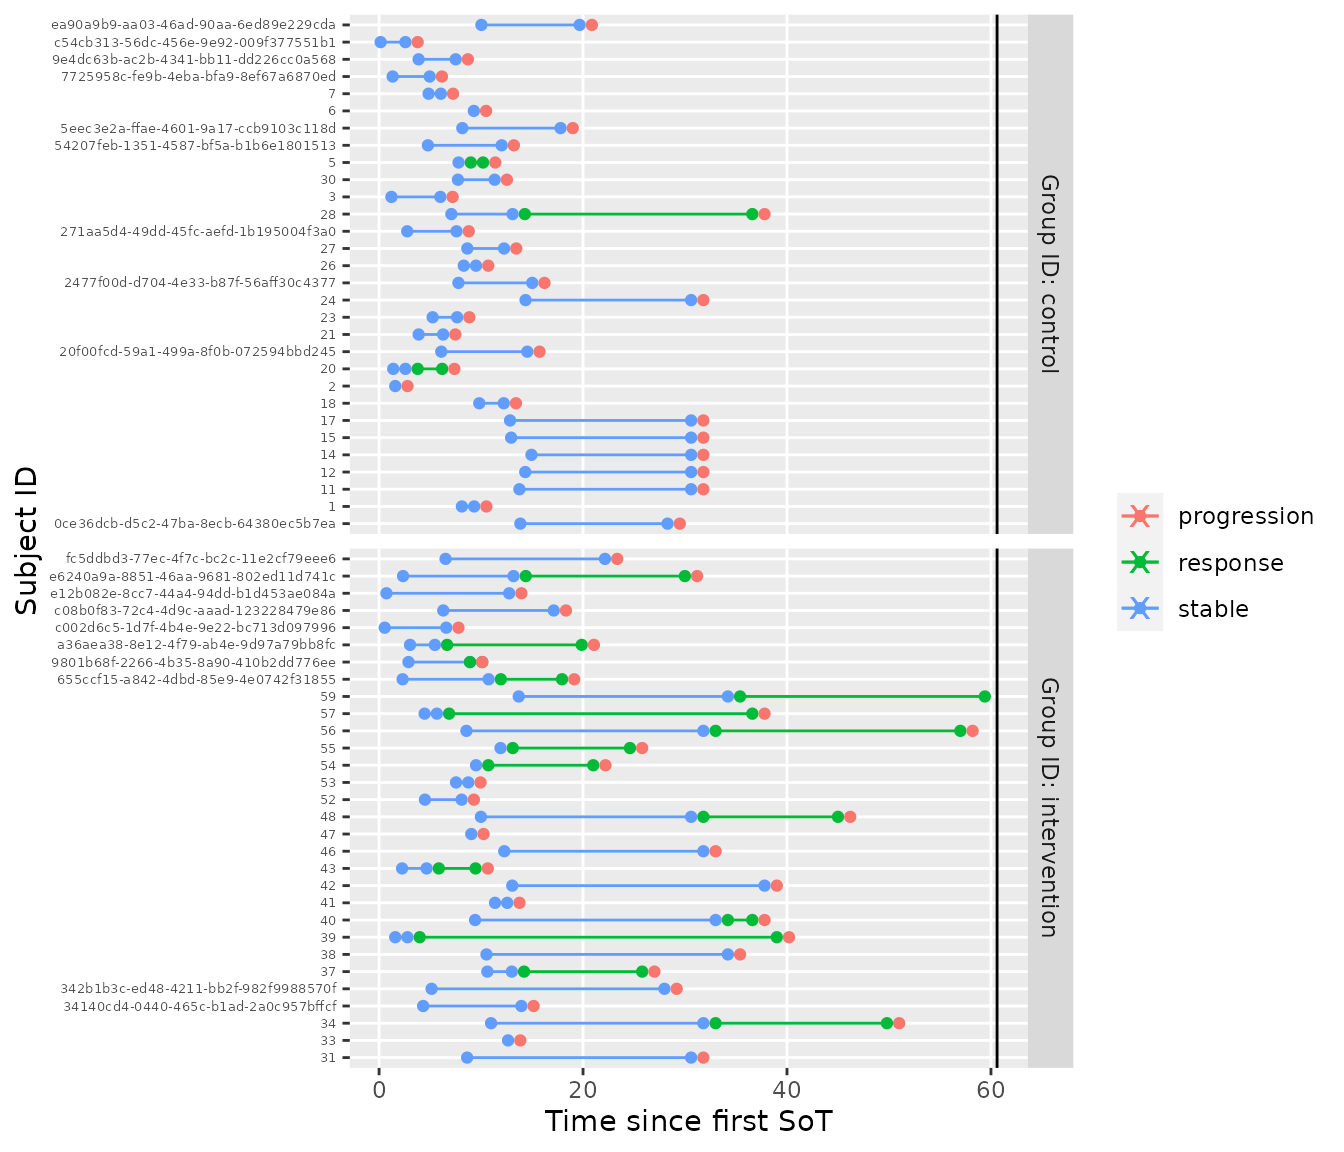
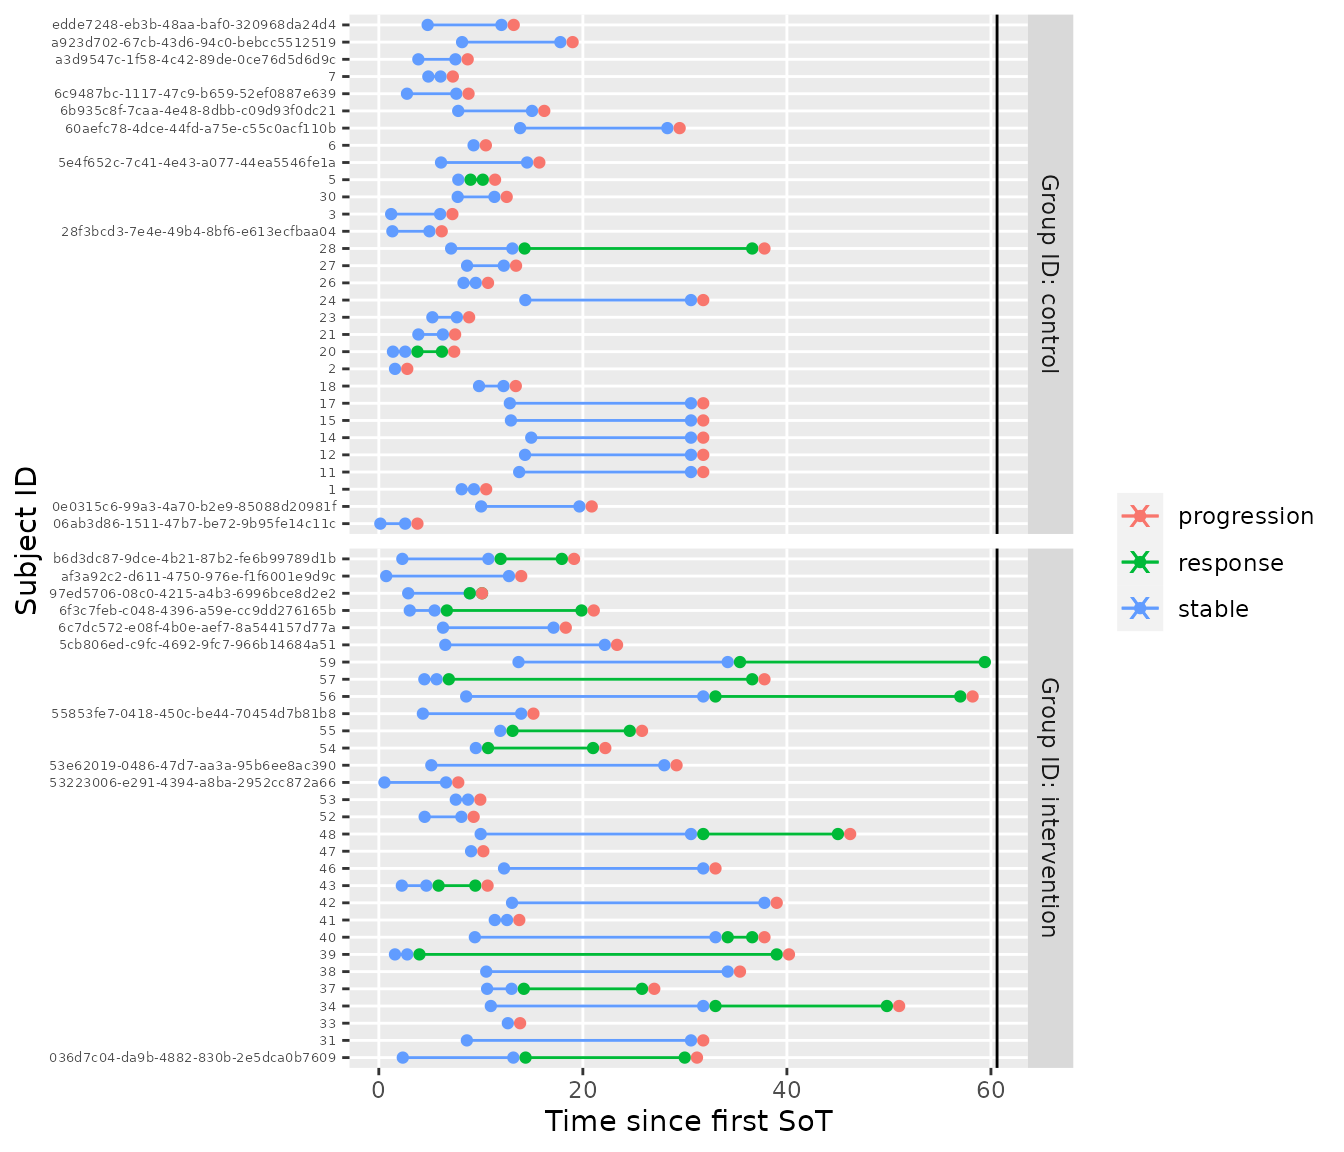
Deploying to gh-pages from @ Boehringer-Ingelheim/oncomsm@ecce1cef25dbb82bd77d9689d22aa2bc6d4420bf 🚀

diff --git a/articles/multi-state-model-for-early-oncology.html b/articles/multi-state-model-for-early-oncology.html
@@ -90,10 +90,10 @@
 <p><strong>tl;dr:</strong> <em>Tumor response data is often treated as binary endpoint in early oncology trials (objective response or progression free survival at x months). This ignores the fact that these are time-to-event endpoints. Instead, the multi-state characteristics of the data can be exploited to reduce bias at interim analyses and drive event prediction for probability of success calculations.</em></p>
 <p>In early oncology trials, (objective tumor) response based on the RECIST criteria is often used as primary endpoint to establish the activity of a treatment. Response is often treated as binary variable although it is a delayed event endpoint. At the final analysis, this simplification is of little concern since all individuals tend to be followed up long enough to justify the assumption that non-responders are unlikely to still become responders. This approach is often plausible since individuals with tumors not responding to treatment ultimately progress. However, when continuously monitoring such a trial, the assumption of sufficient follow-up is no longer fulfilled and a simple binary analysis may be biased.</p>
 <p>In this vignette, the problem is addressed by extending the statistic binary response model to a three-state model for “stable”, “response”, and “progression or death”. The respective transition numbers are given in the graph below.</p>
-<div id="htmlwidget-3ce5f019e2bd54279f5d" style="width:672px;height:200px;" class="DiagrammeR html-widget"></div>
-<script type="application/json" data-for="htmlwidget-3ce5f019e2bd54279f5d">{"x":{"diagram":"\ngraph LR\n  stable -- 1 --> response\n  response -- 3 --> progression[progression or death]\n  stable -- 2 --> progression[progression or death]\n"},"evals":[],"jsHooks":[]}</script><p>Once someone becomes a responder, this model only allows a transition to the combined progression or death state. This means that progression and death are not modeled as competing events and simplifies analysis greatly over a model like the one below:</p>
-<div id="htmlwidget-8886c5324d9cc4aec784" style="width:672px;height:200px;" class="DiagrammeR html-widget"></div>
-<script type="application/json" data-for="htmlwidget-8886c5324d9cc4aec784">{"x":{"diagram":"\ngraph LR\n  stable -- 1 --> response\n  response -- 3a --> progression\n  response -- 3b --> death\n  progression -- 4 --> death\n  stable -- 2a --> progression\n  stable -- 2b --> death\n"},"evals":[],"jsHooks":[]}</script><p>Coming back to the simpler model, there is still a competing event issue when starting from ‘stable’. Often, the convenient hazard-based approach is used to model multi-state situations like this. The hazard-based approach is intuitive, especially when considering non-parametric estimation, and co variate inclusion is well-understood. However, a hazard-based approach has several disadvantages:</p>
+<div id="htmlwidget-4d8710fcd9f7a84d3463" style="width:672px;height:200px;" class="DiagrammeR html-widget"></div>
+<script type="application/json" data-for="htmlwidget-4d8710fcd9f7a84d3463">{"x":{"diagram":"\ngraph LR\n  stable -- 1 --> response\n  response -- 3 --> progression[progression or death]\n  stable -- 2 --> progression[progression or death]\n"},"evals":[],"jsHooks":[]}</script><p>Once someone becomes a responder, this model only allows a transition to the combined progression or death state. This means that progression and death are not modeled as competing events and simplifies analysis greatly over a model like the one below:</p>
+<div id="htmlwidget-d0bf762b89362a0c2712" style="width:672px;height:200px;" class="DiagrammeR html-widget"></div>
+<script type="application/json" data-for="htmlwidget-d0bf762b89362a0c2712">{"x":{"diagram":"\ngraph LR\n  stable -- 1 --> response\n  response -- 3a --> progression\n  response -- 3b --> death\n  progression -- 4 --> death\n  stable -- 2a --> progression\n  stable -- 2b --> death\n"},"evals":[],"jsHooks":[]}</script><p>Coming back to the simpler model, there is still a competing event issue when starting from ‘stable’. Often, the convenient hazard-based approach is used to model multi-state situations like this. The hazard-based approach is intuitive, especially when considering non-parametric estimation, and co variate inclusion is well-understood. However, a hazard-based approach has several disadvantages:</p>
 <ol style="list-style-type: decimal">
 <li><p>The hazard scale is difficult to interpret since it is a momentary risk, not a probability. This leads to problems with prior specification in a Bayesian setting. The Bayesian approach is, however, particularly useful in the early development process since it allows to augment data with prior opinion or evidence and thus improve accuracy.</p></li>
 <li><p>A hazard based, non-Markov multi-state model leads to intractable expressions for the implicitly given transition probabilities. Hence they need to be calculated by simulation which makes the model less convenient to work with if transition probabilities a or of primary interest. Since the (objective) response rate often plays an important role in the analysis of early oncology trials, this is a disadvantage.</p></li>
@@ -320,8 +320,8 @@ R &amp;\sim \operatorname{Bernoulli}(p) \\
 <span><span class="co">#&gt; </span></span>
 <span><span class="co">#&gt; SAMPLING FOR MODEL 'srp_model' NOW (CHAIN 1).</span></span>
 <span><span class="co">#&gt; Chain 1: </span></span>
-<span><span class="co">#&gt; Chain 1: Gradient evaluation took 0.000108 seconds</span></span>
-<span><span class="co">#&gt; Chain 1: 1000 transitions using 10 leapfrog steps per transition would take 1.08 seconds.</span></span>
+<span><span class="co">#&gt; Chain 1: Gradient evaluation took 0.000127 seconds</span></span>
+<span><span class="co">#&gt; Chain 1: 1000 transitions using 10 leapfrog steps per transition would take 1.27 seconds.</span></span>
 <span><span class="co">#&gt; Chain 1: Adjust your expectations accordingly!</span></span>
 <span><span class="co">#&gt; Chain 1: </span></span>
 <span><span class="co">#&gt; Chain 1: </span></span>
@@ -338,9 +338,9 @@ R &amp;\sim \operatorname{Bernoulli}(p) \\
 <span><span class="co">#&gt; Chain 1: Iteration: 4750 / 5250 [ 90%]  (Sampling)</span></span>
 <span><span class="co">#&gt; Chain 1: Iteration: 5250 / 5250 [100%]  (Sampling)</span></span>
 <span><span class="co">#&gt; Chain 1: </span></span>
-<span><span class="co">#&gt; Chain 1:  Elapsed Time: 1.12402 seconds (Warm-up)</span></span>
-<span><span class="co">#&gt; Chain 1:                12.3214 seconds (Sampling)</span></span>
-<span><span class="co">#&gt; Chain 1:                13.4455 seconds (Total)</span></span>
+<span><span class="co">#&gt; Chain 1:  Elapsed Time: 1.22221 seconds (Warm-up)</span></span>
+<span><span class="co">#&gt; Chain 1:                13.3817 seconds (Sampling)</span></span>
+<span><span class="co">#&gt; Chain 1:                14.6039 seconds (Total)</span></span>
 <span><span class="co">#&gt; Chain 1:</span></span>
 <span></span>
 <span><span class="fu"><a href="https://rdrr.io/r/graphics/plot.default.html" class="external-link">plot</a></span><span class="op">(</span><span class="va">mdl</span>, dt <span class="op">=</span> <span class="fu"><a href="https://rdrr.io/r/base/c.html" class="external-link">c</a></span><span class="op">(</span><span class="fl">0</span>, <span class="fl">36</span><span class="op">)</span>, sample <span class="op">=</span> <span class="va">smpl_posterior</span><span class="op">)</span></span></code></pre></div>
@@ -408,26 +408,26 @@ R &amp;\sim \operatorname{Bernoulli}(p) \\
 <span><span class="co">#&gt; <span style="color: #949494;"># A tibble: 20 × 7</span></span></span>
 <span><span class="co">#&gt;    group_id     subject_id                        t_sot from  to     t_min t_max</span></span>
 <span><span class="co">#&gt;    <span style="color: #949494; font-style: italic;">&lt;chr&gt;</span>        <span style="color: #949494; font-style: italic;">&lt;chr&gt;</span>                             <span style="color: #949494; font-style: italic;">&lt;dbl&gt;</span> <span style="color: #949494; font-style: italic;">&lt;chr&gt;</span> <span style="color: #949494; font-style: italic;">&lt;chr&gt;</span>  <span style="color: #949494; font-style: italic;">&lt;dbl&gt;</span> <span style="color: #949494; font-style: italic;">&lt;dbl&gt;</span></span></span>
-<span><span class="co">#&gt; <span style="color: #BCBCBC;"> 1</span> control      c54cb313-56dc-456e-9e92-009f377…  0.151 stab… <span style="color: #BB0000;">NA</span>     0.184   <span style="color: #BB0000;">Inf</span></span></span>
-<span><span class="co">#&gt; <span style="color: #BCBCBC;"> 2</span> control      7725958c-fe9b-4eba-bfa9-8ef67a6…  1.33  stab… <span style="color: #BB0000;">NA</span>     1.36    <span style="color: #BB0000;">Inf</span></span></span>
-<span><span class="co">#&gt; <span style="color: #BCBCBC;"> 3</span> control      271aa5d4-49dd-45fc-aefd-1b19500…  2.76  stab… <span style="color: #BB0000;">NA</span>     2.79    <span style="color: #BB0000;">Inf</span></span></span>
-<span><span class="co">#&gt; <span style="color: #BCBCBC;"> 4</span> control      9e4dc63b-ac2b-4341-bb11-dd226cc…  3.88  stab… <span style="color: #BB0000;">NA</span>     3.91    <span style="color: #BB0000;">Inf</span></span></span>
-<span><span class="co">#&gt; <span style="color: #BCBCBC;"> 5</span> control      54207feb-1351-4587-bf5a-b1b6e18…  4.79  stab… <span style="color: #BB0000;">NA</span>     4.82    <span style="color: #BB0000;">Inf</span></span></span>
-<span><span class="co">#&gt; <span style="color: #BCBCBC;"> 6</span> control      20f00fcd-59a1-499a-8f0b-072594b…  6.10  stab… <span style="color: #BB0000;">NA</span>     6.13    <span style="color: #BB0000;">Inf</span></span></span>
-<span><span class="co">#&gt; <span style="color: #BCBCBC;"> 7</span> control      2477f00d-d704-4e33-b87f-56aff30…  7.78  stab… <span style="color: #BB0000;">NA</span>     7.82    <span style="color: #BB0000;">Inf</span></span></span>
-<span><span class="co">#&gt; <span style="color: #BCBCBC;"> 8</span> control      5eec3e2a-ffae-4601-9a17-ccb9103…  8.16  stab… <span style="color: #BB0000;">NA</span>     8.20    <span style="color: #BB0000;">Inf</span></span></span>
-<span><span class="co">#&gt; <span style="color: #BCBCBC;"> 9</span> control      ea90a9b9-aa03-46ad-90aa-6ed89e2… 10.0   stab… <span style="color: #BB0000;">NA</span>    10.1     <span style="color: #BB0000;">Inf</span></span></span>
-<span><span class="co">#&gt; <span style="color: #BCBCBC;">10</span> control      0ce36dcb-d5c2-47ba-8ecb-64380ec… 13.9   stab… <span style="color: #BB0000;">NA</span>    13.9     <span style="color: #BB0000;">Inf</span></span></span>
-<span><span class="co">#&gt; <span style="color: #BCBCBC;">11</span> intervention c002d6c5-1d7f-4b4e-9e22-bc713d0…  0.554 stab… <span style="color: #BB0000;">NA</span>     0.587   <span style="color: #BB0000;">Inf</span></span></span>
-<span><span class="co">#&gt; <span style="color: #BCBCBC;">12</span> intervention e12b082e-8cc7-44a4-94dd-b1d453a…  0.724 stab… <span style="color: #BB0000;">NA</span>     0.758   <span style="color: #BB0000;">Inf</span></span></span>
-<span><span class="co">#&gt; <span style="color: #BCBCBC;">13</span> intervention 655ccf15-a842-4dbd-85e9-4e0742f…  2.31  stab… <span style="color: #BB0000;">NA</span>     2.34    <span style="color: #BB0000;">Inf</span></span></span>
-<span><span class="co">#&gt; <span style="color: #BCBCBC;">14</span> intervention e6240a9a-8851-46aa-9681-802ed11…  2.35  stab… <span style="color: #BB0000;">NA</span>     2.38    <span style="color: #BB0000;">Inf</span></span></span>
-<span><span class="co">#&gt; <span style="color: #BCBCBC;">15</span> intervention 9801b68f-2266-4b35-8a90-410b2dd…  2.88  stab… <span style="color: #BB0000;">NA</span>     2.92    <span style="color: #BB0000;">Inf</span></span></span>
-<span><span class="co">#&gt; <span style="color: #BCBCBC;">16</span> intervention a36aea38-8e12-4f79-ab4e-9d97a79…  3.04  stab… <span style="color: #BB0000;">NA</span>     3.07    <span style="color: #BB0000;">Inf</span></span></span>
-<span><span class="co">#&gt; <span style="color: #BCBCBC;">17</span> intervention 34140cd4-0440-465c-b1ad-2a0c957…  4.32  stab… <span style="color: #BB0000;">NA</span>     4.35    <span style="color: #BB0000;">Inf</span></span></span>
-<span><span class="co">#&gt; <span style="color: #BCBCBC;">18</span> intervention 342b1b3c-ed48-4211-bb2f-982f998…  5.15  stab… <span style="color: #BB0000;">NA</span>     5.18    <span style="color: #BB0000;">Inf</span></span></span>
-<span><span class="co">#&gt; <span style="color: #BCBCBC;">19</span> intervention c08b0f83-72c4-4d9c-aaad-1232284…  6.29  stab… <span style="color: #BB0000;">NA</span>     6.33    <span style="color: #BB0000;">Inf</span></span></span>
-<span><span class="co">#&gt; <span style="color: #BCBCBC;">20</span> intervention fc5ddbd3-77ec-4f7c-bc2c-11e2cf7…  6.52  stab… <span style="color: #BB0000;">NA</span>     6.55    <span style="color: #BB0000;">Inf</span></span></span></code></pre></div>
+<span><span class="co">#&gt; <span style="color: #BCBCBC;"> 1</span> control      06ab3d86-1511-47b7-be72-9b95fe1…  0.151 stab… <span style="color: #BB0000;">NA</span>     0.184   <span style="color: #BB0000;">Inf</span></span></span>
+<span><span class="co">#&gt; <span style="color: #BCBCBC;"> 2</span> control      28f3bcd3-7e4e-49b4-8bf6-e613ecf…  1.33  stab… <span style="color: #BB0000;">NA</span>     1.36    <span style="color: #BB0000;">Inf</span></span></span>
+<span><span class="co">#&gt; <span style="color: #BCBCBC;"> 3</span> control      6c9487bc-1117-47c9-b659-52ef088…  2.76  stab… <span style="color: #BB0000;">NA</span>     2.79    <span style="color: #BB0000;">Inf</span></span></span>
+<span><span class="co">#&gt; <span style="color: #BCBCBC;"> 4</span> control      a3d9547c-1f58-4c42-89de-0ce76d5…  3.88  stab… <span style="color: #BB0000;">NA</span>     3.91    <span style="color: #BB0000;">Inf</span></span></span>
+<span><span class="co">#&gt; <span style="color: #BCBCBC;"> 5</span> control      edde7248-eb3b-48aa-baf0-320968d…  4.79  stab… <span style="color: #BB0000;">NA</span>     4.82    <span style="color: #BB0000;">Inf</span></span></span>
+<span><span class="co">#&gt; <span style="color: #BCBCBC;"> 6</span> control      5e4f652c-7c41-4e43-a077-44ea554…  6.10  stab… <span style="color: #BB0000;">NA</span>     6.13    <span style="color: #BB0000;">Inf</span></span></span>
+<span><span class="co">#&gt; <span style="color: #BCBCBC;"> 7</span> control      6b935c8f-7caa-4e48-8dbb-c09d93f…  7.78  stab… <span style="color: #BB0000;">NA</span>     7.82    <span style="color: #BB0000;">Inf</span></span></span>
+<span><span class="co">#&gt; <span style="color: #BCBCBC;"> 8</span> control      a923d702-67cb-43d6-94c0-bebcc55…  8.16  stab… <span style="color: #BB0000;">NA</span>     8.20    <span style="color: #BB0000;">Inf</span></span></span>
+<span><span class="co">#&gt; <span style="color: #BCBCBC;"> 9</span> control      0e0315c6-99a3-4a70-b2e9-85088d2… 10.0   stab… <span style="color: #BB0000;">NA</span>    10.1     <span style="color: #BB0000;">Inf</span></span></span>
+<span><span class="co">#&gt; <span style="color: #BCBCBC;">10</span> control      60aefc78-4dce-44fd-a75e-c55c0ac… 13.9   stab… <span style="color: #BB0000;">NA</span>    13.9     <span style="color: #BB0000;">Inf</span></span></span>
+<span><span class="co">#&gt; <span style="color: #BCBCBC;">11</span> intervention 53223006-e291-4394-a8ba-2952cc8…  0.554 stab… <span style="color: #BB0000;">NA</span>     0.587   <span style="color: #BB0000;">Inf</span></span></span>
+<span><span class="co">#&gt; <span style="color: #BCBCBC;">12</span> intervention af3a92c2-d611-4750-976e-f1f6001…  0.724 stab… <span style="color: #BB0000;">NA</span>     0.758   <span style="color: #BB0000;">Inf</span></span></span>
+<span><span class="co">#&gt; <span style="color: #BCBCBC;">13</span> intervention b6d3dc87-9dce-4b21-87b2-fe6b997…  2.31  stab… <span style="color: #BB0000;">NA</span>     2.34    <span style="color: #BB0000;">Inf</span></span></span>
+<span><span class="co">#&gt; <span style="color: #BCBCBC;">14</span> intervention 036d7c04-da9b-4882-830b-2e5dca0…  2.35  stab… <span style="color: #BB0000;">NA</span>     2.38    <span style="color: #BB0000;">Inf</span></span></span>
+<span><span class="co">#&gt; <span style="color: #BCBCBC;">15</span> intervention 97ed5706-08c0-4215-a4b3-6996bce…  2.88  stab… <span style="color: #BB0000;">NA</span>     2.92    <span style="color: #BB0000;">Inf</span></span></span>
+<span><span class="co">#&gt; <span style="color: #BCBCBC;">16</span> intervention 6f3c7feb-c048-4396-a59e-cc9dd27…  3.04  stab… <span style="color: #BB0000;">NA</span>     3.07    <span style="color: #BB0000;">Inf</span></span></span>
+<span><span class="co">#&gt; <span style="color: #BCBCBC;">17</span> intervention 55853fe7-0418-450c-be44-70454d7…  4.32  stab… <span style="color: #BB0000;">NA</span>     4.35    <span style="color: #BB0000;">Inf</span></span></span>
+<span><span class="co">#&gt; <span style="color: #BCBCBC;">18</span> intervention 53e62019-0486-47d7-aa3a-95b6ee8…  5.15  stab… <span style="color: #BB0000;">NA</span>     5.18    <span style="color: #BB0000;">Inf</span></span></span>
+<span><span class="co">#&gt; <span style="color: #BCBCBC;">19</span> intervention 6c7dc572-e08f-4b0e-aef7-8a54415…  6.29  stab… <span style="color: #BB0000;">NA</span>     6.33    <span style="color: #BB0000;">Inf</span></span></span>
+<span><span class="co">#&gt; <span style="color: #BCBCBC;">20</span> intervention 5cb806ed-c9fc-4692-9fc7-966b146…  6.52  stab… <span style="color: #BB0000;">NA</span>     6.55    <span style="color: #BB0000;">Inf</span></span></span></code></pre></div>
 <p>The hypothetical future first-visits can now be combined with the interim data and the trajectories can be sampled forward using the already fitted posterior distribution.</p>
 <div class="sourceCode" id="cb14"><pre class="downlit sourceCode r">
 <code class="sourceCode R"><span><span class="va">tbl_mstate_interim_forward</span> <span class="op">&lt;-</span> <span class="fu"><a href="https://dplyr.tidyverse.org/reference/bind.html" class="external-link">bind_rows</a></span><span class="op">(</span><span class="va">tbl_mstate_interim</span>, <span class="va">tbl_to_be_recruited</span><span class="op">)</span></span>
